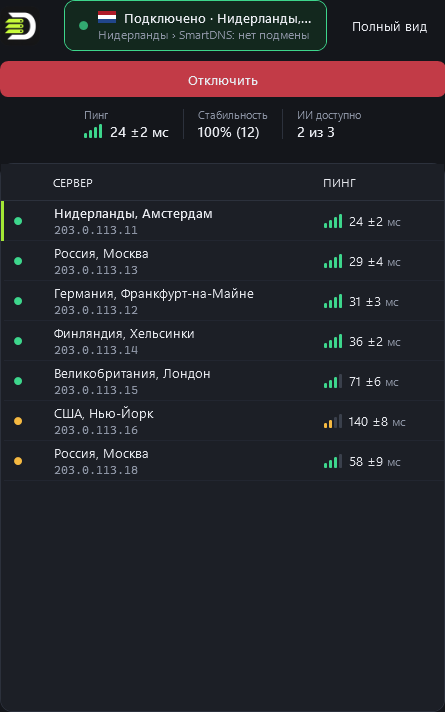
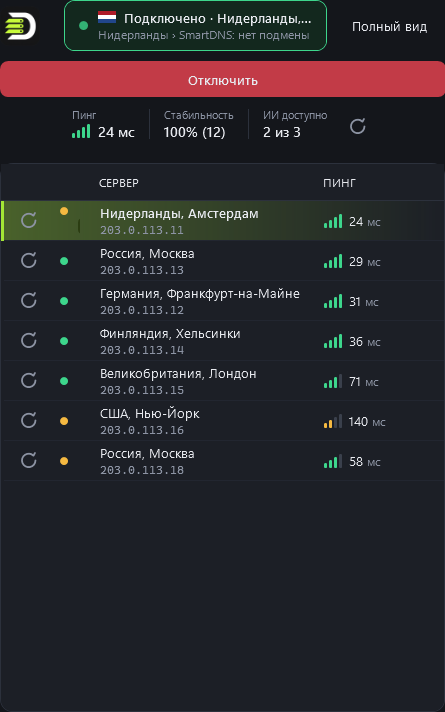
Документация: возможности версии 0.1.11, обновленные снимки экрана
- README: подключенный сервер первым, обновление строки, пинг каждые 10 минут, логотипы, журнал, ручное добавление, защита от зависаний.
- Раздел Android приведен к текущему состоянию.
- Снимки главного окна и компактного вида пересняты на выдуманных данных.

diff --git a/README.md b/README.md
@@ -34,11 +34,20 @@
 - **Статистика подключения.** В шапке справа от карточки подключения: пинг, стабильность и число доступных ИИ-сервисов.
 - **Компактный вид.** Окно 485×775: кнопка подключения, статистика по центру и список рабочих серверов с локацией и пингом.
 - **Значок связи.** Рядом с пингом четыре столбика: их число и цвет зависят от значения (до 50 мс горят все четыре зеленые, до 100 мс три, до 200 мс два желтые, дольше один красный). Столбики плавно растут при обновлении.
+- **Подключенный сервер первым.** В таблице он всегда наверху, какой бы колонкой ни была отсортирована. Отмечен плашкой «подключен» и лаймовым градиентом строки.
+- **Обновление одного сервера.** Кнопка слева в каждой строке проверяет только этот сервер, значок крутится в его строке. Такая же кнопка есть рядом со статистикой подключения.
+- **Пинг каждые 10 минут.** Пинг всех серверов обновляется сам: таблица, шапка, строка под таблицей и трей. Интервал меняется в настройках (от 1 до 60 минут).
+- **Логотипы ИИ-сервисов.** Логотипы ChatGPT, Claude и Gemini в блоке проверки и в списке сервисов.
+- **Журнал.** Записи окрашены по уровню: информация, успех, предупреждение, ошибка. Есть фильтр, очистка, копирование. Можно выбрать несколько строк и скопировать их (Ctrl+C, двойной щелчок, контекстное меню).
+- **Ручное добавление.** Сервер можно добавить по IP или DoH-адресу. Новый сервер сразу проверяется.
+- **Защита от зависаний.** Поиск ограничивает время на страницу (45 секунд), страница без ответа пропускается. Если поиск долго ничего не получает, журнал показывает, какие адреса в работе.
 - **Выход с активным подключением.** По умолчанию выбран вариант «Нет»: выйти, оставив DNS как есть. Отключение происходит только после явного выбора «Да».
 
 ## Android
 
-Перенос на Android-устройства уже идет. В этой версии его нет: программа работает только в Windows. Версия для Android выйдет отдельно, когда будет готова.
+Версия для Android собирается из того же проекта, что и версия для ПК, и выходит в том же релизе. Компактный экран перенесен как на ПК: подключение, статистика, список серверов, подключенный сервер первым. Режим DNS для ИИ работает через VPN-сервис Android, другой трафик телефона не меняется.
+
+Что еще не проверено на всех устройствах: подключенное состояние на последних правках, анимации и перепроверка. Трей, автозапуск и откат DNS на уровне системы на Android не переносились.
 
 ## Требования
 
@@ -85,7 +94,7 @@ dotnet test tests/DNEX.Tests
 - `junk.json`: удаленные серверы. 14 дней их не добавляют снова.
 - `error.log`: необработанные ошибки.
 
-Настройки меняются в окне «Настройки». Там же есть интервал проверки сервисов в трее (1–60 минут) и интервал сторожа (15–600 секунд). Если правите `settings.json` вручную, нажмите «Перечитать настройки».
+Настройки меняются в окне «Настройки». Там же есть интервал проверки сервисов в трее (1–60 минут) и интервал сторожа (15–600 секунд). Там же задается интервал обновления пинга (по умолчанию 10 минут). Если правите `settings.json` вручную, нажмите «Перечитать настройки».
 
 ### Сайты с авторизацией (4PDA)
 
@@ -146,7 +155,9 @@ Cookie берутся в DevTools: Network, любой запрос к 4pda.to, 
 | `Services/GeoLocation.cs` | локация по IP и флаги стран |
 | `Services/Catalog.cs` | встроенный каталог серверов |
 | `Services/Storage.cs` | файлы в `%AppData%\DNEX`, шифрование Cookie |
-| `Models/` | сервер, настройки, проверяемые сервисы |
+| `Models/` | сервер, настройки, проверяемые сервисы, записи журнала (`LogEntry.cs`) |
+| `Controls/PingBars.cs` | значок связи для пинга |
+| `Services/ServiceAccess.cs` | критерий доступа к ИИ-сервису по ответу API |
 | `tests/DNEX.Tests` | тесты |
 | `build.cmd` | сборка и запуск |
 | `reset-dns.cmd`, `reset-dns.ps1` | аварийный сброс DNS, который выставила DNEX |
